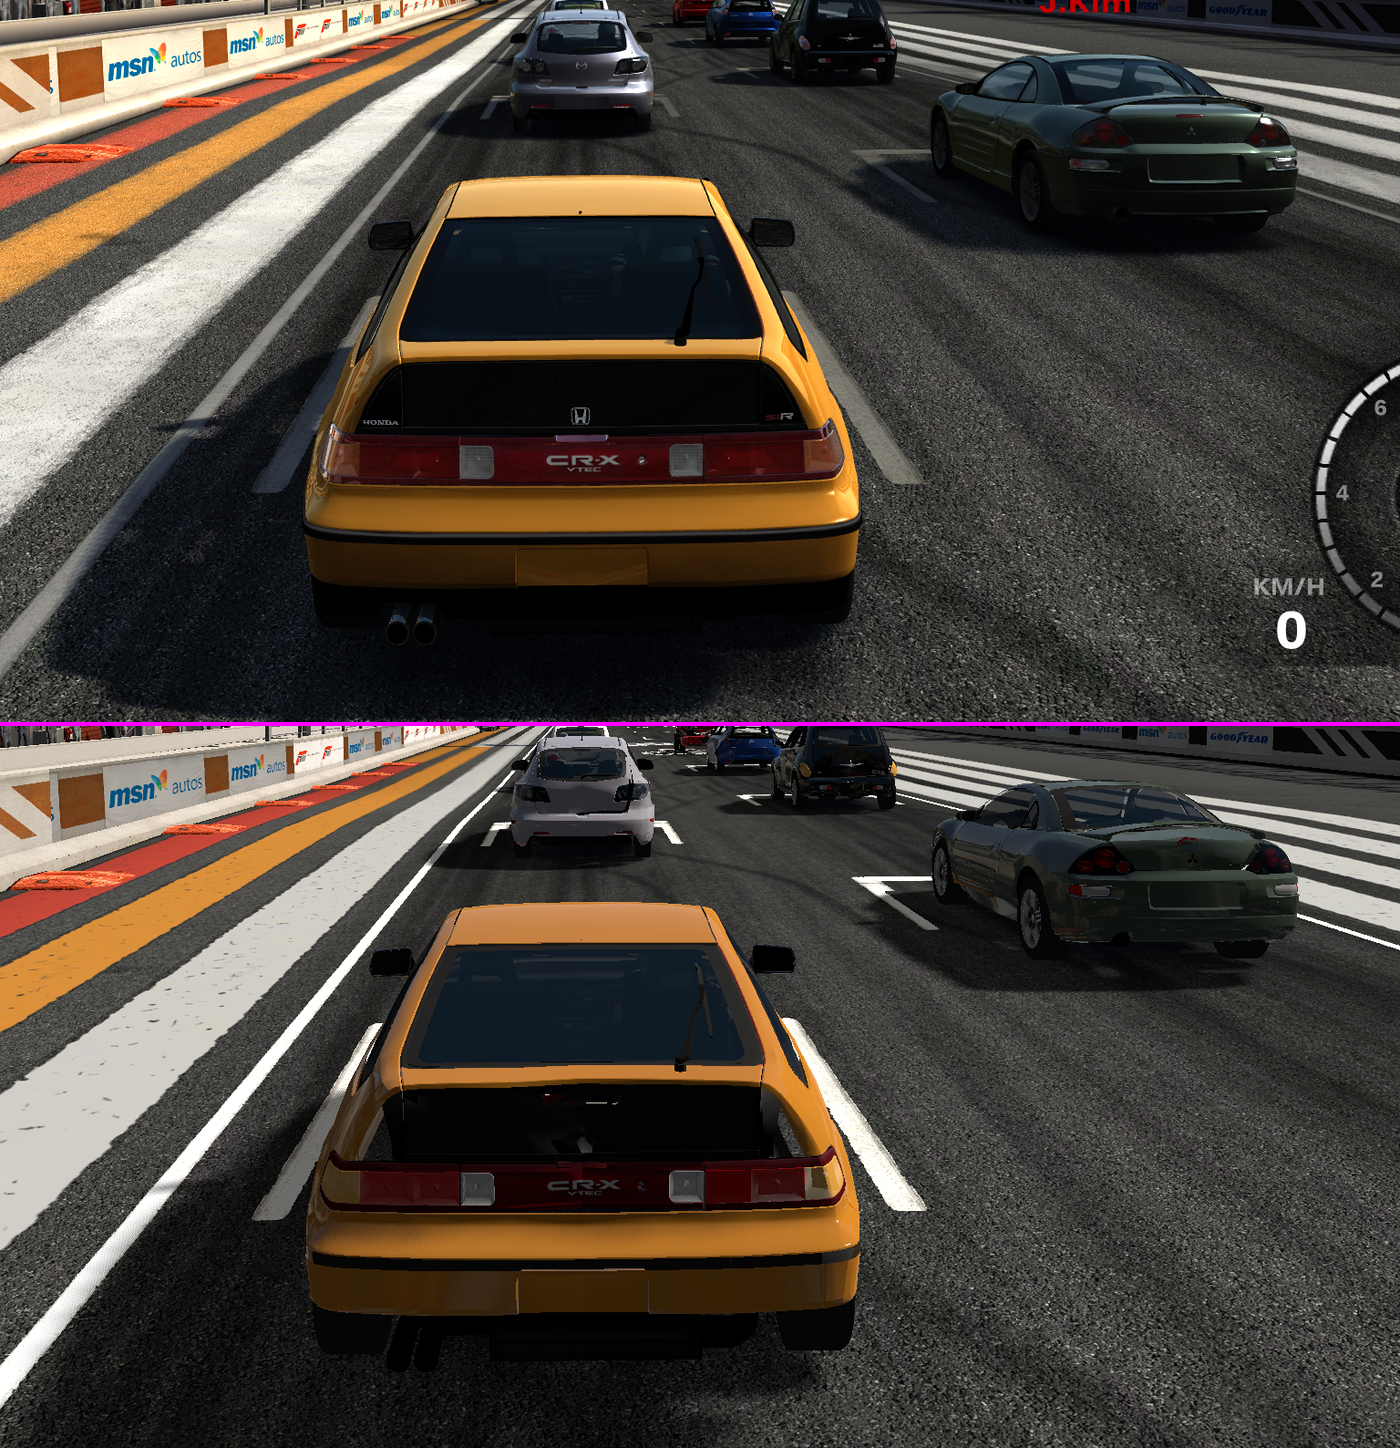
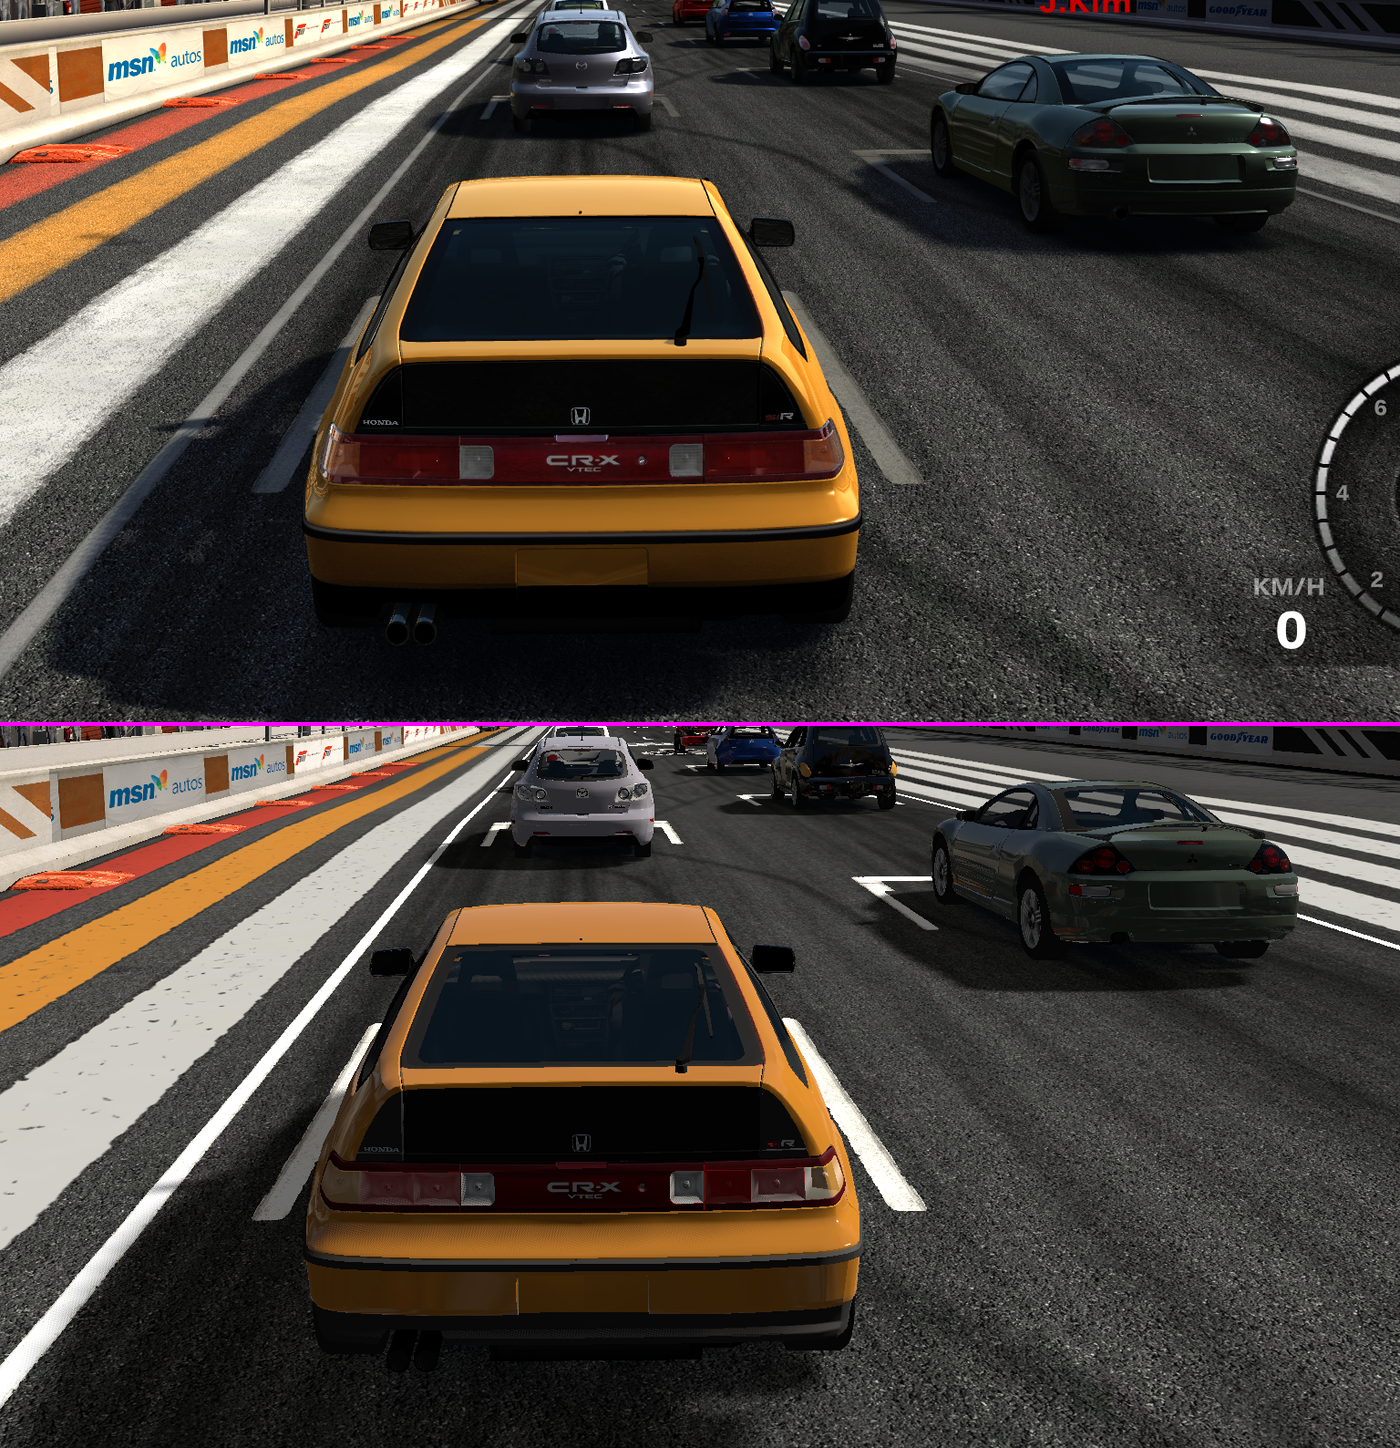
Whole cars from their .carbin files: part offsets, half-float vertices, rigid placement, per-part materials

diff --git a/tools/fm3_track_export.py b/tools/fm3_track_export.py
@@ -32,6 +32,7 @@ import fm3_track  # noqa: E402
 import fm3_tex  # noqa: E402
 import fm3_pvs  # noqa: E402
 import fm3_families  # noqa: E402
+import fm3_car  # noqa: E402
 import fir_read as fr  # noqa: E402
 import re  # noqa: E402
 from fir_world import smooth_normals  # noqa: E402
@@ -61,6 +62,151 @@ def apply_uv(chan, a, b, me):
     if uv is None:
         return None
     return (uv * np.array(a) + np.array(b)).astype(np.float32)
+
+
+CARBIN_DIRS = []  # --carbins DIR[;DIR]: whole cars from their .carbin files instead of the captured draws
+
+
+CAR_FLAT = {k: v for k, v in json.load(open(os.path.join(os.path.dirname(os.path.abspath(__file__)), '..', 'profiles', 'fm3',
+                                                         'car_materials.json'))).items() if isinstance(v, dict) and not v.get('keep')}
+
+
+def build_cars(ref, rbin, caps, capdir, copy_mat, add_view, accessors, meshes, nodes, materials_out):
+    """Every car of the capture rebuilt from its .carbin (fm3_car.py): the stock parts (the captured variants, mirrored
+    to the other side, else 'a'), placed by a rigid fit of the car's captured draws (carbin car space -> world), with
+    the materials the capture gave each material name (UV0 is the captured texture coordinate). Returns the car names
+    built (their captured body draws are then left out; wheels stay captured)."""
+    fl = os.path.join(capdir, 'fetches.json') if capdir else None
+    recs = dict(caps)
+    if fl and os.path.exists(fl):
+        for r in json.load(open(fl)):
+            recs.setdefault(r['seq'], r)
+
+    def world_of(n):
+        p = ref['meshes'][n['mesh']]['primitives'][0]
+        a = ref['accessors'][p['attributes']['POSITION']]
+        v = ref['bufferViews'][a['bufferView']]
+        P = np.frombuffer(rbin, np.float32, a['count'] * 3, v.get('byteOffset', 0) + a.get('byteOffset', 0)).reshape(-1, 3)
+        M = np.array(n.get('matrix', np.eye(4).ravel())).reshape(4, 4).T
+        return P.astype(np.float64) @ M[:3, :3].T + M[:3, 3], p.get('material')
+    per_car = {}
+    for n in ref['nodes']:
+        mo = re.match(r'draw(\d+) ([a-z0-9_]+)\.([a-z0-9_]+)$', n.get('name', ''))
+        if mo and 'mesh' in n:
+            per_car.setdefault(mo.group(2), []).append((int(mo.group(1)), mo.group(3), n))
+    built = set()
+    for car, draws in per_car.items():
+        path = next((os.path.join(d, car + '.carbin') for d in CARBIN_DIRS
+                     if os.path.exists(os.path.join(d, car + '.carbin'))), None)
+        if path is None:
+            continue
+        secs = fm3_car.parse(open(path, 'rb').read())
+        by_ib = {}
+        for si, sec in enumerate(secs):
+            for sub in sec['subs']:
+                by_ib.setdefault(sub['ib_hex'], (si, sub))
+        X, Y, captured, mat_of = [], [], set(), {}
+        for seq, matname, n in draws:
+            r = recs.get(seq)
+            hit = by_ib.get(r['ib']) if r else None
+            if hit is None:
+                continue
+            si, sub = hit
+            sec = secs[si]
+            W, mat = world_of(n)
+            vi = np.array(r['vindex'])
+            if sec['offset'] is None or len(vi) != len(W) or vi.max() >= len(sec['local']):
+                continue
+            captured.add(sec['name'])
+            if mat is not None:
+                mat_of.setdefault((sec['name'], sub['material']), mat)
+                votes = mat_of.setdefault(('*', sub['material']), {})
+                votes[mat] = votes.get(mat, 0) + len(vi)
+            if sec['name'].startswith(('headlight', 'trunk', 'hood', 'door')):
+                continue  # (movable parts: not used for the fit)
+            X.append(sec['local'][vi] + sec['offset'])
+            Y.append(W)
+        if not X:
+            continue
+        # robust: fit on the largest captured piece, keep the pieces it explains within 2 cm (some parts sit animated or
+        # damage-deformed in the frame), refit on those
+        good, err = [], 1.0
+        for seed in sorted(range(len(X)), key=lambda i: -len(X[i]))[:12]:  # the seed piece that explains most pieces
+            if len(X[seed]) < 4:
+                continue
+            R, t, e = fm3_car.kabsch(X[seed], Y[seed])
+            g_ = [i for i in range(len(X)) if np.abs(X[i] @ R.T + t - Y[i]).max() < 0.02]
+            if sum(len(X[i]) for i in g_) > sum(len(X[i]) for i in good):
+                good, err = g_, e
+        if not good:
+            print(f'  {car}: largest captured piece is not rigid in the carbin ({err:.3f} m), kept the captured draws')
+            continue
+        R, t, err = fm3_car.kabsch(np.concatenate([X[i] for i in good]), np.concatenate([Y[i] for i in good]))
+        if err > 0.05 or len(good) < max(3, len(X) // 3):
+            print(f'  {car}: carbin fit error {err:.3f} m, kept the captured draws')
+            continue
+        keep = fm3_car.stock_parts(secs, captured)
+        # the car's paint: the captured material with a metallic-roughness texture (fir_world writes one only for paint)
+        paint = None
+        for (sn, mn), v in mat_of.items():
+            if sn == '*':
+                for mi_, cnt_ in v.items():
+                    if 'metallicRoughnessTexture' in ref['materials'][mi_].get('pbrMetallicRoughness', {}):
+                        paint = mi_
+        groups = {}
+        for sec in secs:
+            if sec['name'] not in keep or sec['offset'] is None or sec['name'] == 'wheel':
+                continue
+            P = (sec['local'] + sec['offset']) @ R.T + t
+            for sub in sec['subs']:
+                tris = fm3_car.triangles(sub['indices'], sub['prim'])
+                if not len(tris) or tris.max() >= len(P):
+                    continue
+                m_ = mat_of.get((sec['name'], sub['material']))
+                if m_ is None and ('*', sub['material']) in mat_of:
+                    v_ = mat_of[('*', sub['material'])]
+                    m_ = max(v_, key=v_.get)  # the material most of this name's captured vertices had
+                if m_ is None and sub['material'] in ('body', 'body_2') and paint is not None:
+                    m_ = paint
+                if m_ is None and sub['material'] in CAR_FLAT:
+                    m_ = ('flat', sub['material'])
+                groups.setdefault((sub['material'], m_), []).append((P, tris, sec['uv0']))
+        mirrored = np.linalg.det(R) < 0
+        for (matname, matidx), parts in groups.items():
+            Pc = np.concatenate([q[0] for q in parts]).astype(np.float32)
+            Uc = np.concatenate([q[2] for q in parts]).astype(np.float32)
+            off, tl = 0, []
+            for q in parts:
+                tl.append((q[1][:, ::-1] if mirrored else q[1]) + off)
+                off += len(q[0])
+            T = np.concatenate(tl).astype(np.uint32)
+            N = smooth_normals(Pc, T)
+            prim = {'attributes': {}}
+            for attr, arr, typ in (('POSITION', Pc, 'VEC3'), ('NORMAL', N.astype(np.float32), 'VEC3'),
+                                   ('TEXCOORD_0', Uc, 'VEC2')):
+                acc = {'bufferView': add_view(np.ascontiguousarray(arr).tobytes(), 34962), 'componentType': 5126,
+                       'count': len(arr), 'type': typ}
+                if attr == 'POSITION':
+                    acc.update(min=Pc.min(0).tolist(), max=Pc.max(0).tolist())
+                accessors.append(acc)
+                prim['attributes'][attr] = len(accessors) - 1
+            accessors.append({'bufferView': add_view(T.tobytes(), 34963), 'componentType': 5125, 'count': int(T.size),
+                              'type': 'SCALAR'})
+            prim['indices'] = len(accessors) - 1
+            if isinstance(matidx, tuple):
+                r_ = CAR_FLAT[matidx[1]]
+                materials_out.append({'name': matidx[1], 'doubleSided': True, 'pbrMetallicRoughness': {
+                    'baseColorFactor': list(r_.get('color', [0.5, 0.5, 0.5])) + [float(r_.get('alpha', 1.0))],
+                    'metallicFactor': r_.get('metallic', 0.0), 'roughnessFactor': r_.get('roughness', 1.0)},
+                    **({'alphaMode': 'BLEND'} if r_.get('alpha', 1.0) < 1.0 else {})})
+                prim['material'] = len(materials_out) - 1
+            elif matidx is not None:
+                prim['material'] = copy_mat(matidx)
+            meshes.append({'name': f'{car}.{matname}', 'primitives': [prim]})
+            nodes.append({'mesh': len(meshes) - 1, 'name': f'carbin_{car}_{matname}_{len(meshes) - 1}'})
+        built.add(car)
+        print(f'  {car}: {len(keep)} parts from the carbin (fit {err * 1000:.1f} mm over {len(good)} of {len(X)} captured pieces)')
+    return built
 
 
 def import_dynamic(ref_path, capdir, src, add_view, accessors, materials, images, textures, meshes, nodes, tex_out):
@@ -112,7 +258,8 @@ def import_dynamic(ref_path, capdir, src, add_view, accessors, materials, images
             mat_map[i] = len(materials) - 1
         return mat_map[i]
 
-    count = 0
+    built = build_cars(ref, rbin, caps, capdir, copy_mat, add_view, accessors, meshes, nodes, materials) if CARBIN_DIRS else set()
+    count = len(built)
     for n in ref['nodes']:
         if 'mesh' not in n:
             continue
@@ -120,6 +267,8 @@ def import_dynamic(ref_path, capdir, src, add_view, accessors, materials, images
         if not mo:
             continue
         car = bool(mo.group(2).strip())
+        if car and mo.group(2).strip().split('.')[0] in built:
+            continue  # rebuilt whole from its .carbin
         rec = caps.get(int(mo.group(1)))
         if not car and (rec is None or blob.find(bytes.fromhex(rec['vb_head'])[:32]) >= 0):
             continue
@@ -482,6 +631,8 @@ def main():
                 img = img.copy()
                 img[..., 3] = 255
                 fr.write_png(os.path.join(tex_out, 'envcube_%d.png' % k), img.shape[1], img.shape[0], img.tobytes())
+    if '--carbins' in sys.argv:
+        CARBIN_DIRS.extend(sys.argv[sys.argv.index('--carbins') + 1].split(';'))
     if '--dynamic-from' in sys.argv:
         ndyn = import_dynamic(sys.argv[sys.argv.index('--dynamic-from') + 1], capdir, src, add_view, accessors, materials,
                               images, textures, meshes, nodes, tex_out)

diff --git a/tools/fm3_car.py b/tools/fm3_car.py
@@ -1,0 +1,148 @@
+"""fm3_car.py: whole FM3 cars from their .carbin files (Media/Cars/<car>.zip, extracted with tools/fm3unzip).
+
+Layout (big-endian), worked out on the CR-X against the captured grid frame (every captured car draw's index and vertex
+data are verbatim in the file):
+  part section: ... f32[3] offset (car space, at name - 81), f32[3] bbox min, f32[3] bbox max, ..., u32 name length,
+      name (e.g. body, trunk, bumperRa, skirtLb, wingrace, glassLM), u32 2, u32 vertex count, u32 stride (40),
+      vertices, then its subsections;
+  vertex (stride 40): half4 position (x, y, z, w: car space = xyz * w + section offset, as the vertex shader's
+      'mad r4 = r1.xyz * r1.w + c190'), half2 UV0 at byte 8 (the captured texture coordinates, unchanged), the rest
+      packed normal / tangent / damage data (not used here);
+  subsection: u32 2, u32 name length, material name (body, window, chrome, ...), u32 1 (LOD), u32 index type (6 strip /
+      4 list), u32 material index, u32 1, u32 0 x4, f32 1.0 x4, f32[2] UV offset, f32[2] UV tile, u32 3, i32 index
+      count, i32 index size, indices (0xFFFF restarts).
+Part variants: a base name plus a lower-case letter (bumperRa .. bumperRf, skirtLa ..) or 'race'; the stock car uses one
+variant per part group (the captured frame shows which).
+"""
+import re
+import struct
+
+import numpy as np
+
+_SEC = re.compile(rb'\x00\x00\x00([\x03-\x30])([A-Za-z][A-Za-z0-9_]{2,47})\x00\x00\x00\x02')
+_SUB = re.compile(rb'\x00\x00\x00\x02\x00\x00\x00([\x04-\x40])([a-z][a-z0-9_]{3,63})\x00\x00\x00\x01')
+
+
+HEADER = bytes([0, 0, 0, 2, 0, 0, 0, 0, 0, 0, 0, 0, 0, 0, 0, 2])
+
+
+def _header_offset(data, o, lo):
+    """The part's car-space offset: the last header between the previous part's data (lo) and this part's name:
+    u32 2, u32 0, u32 0, u32 2, f32[3] offset, f32[3] bbox min, f32[3] bbox max (for glass panes thousands of bytes
+    before the name, after their damage data). None if there is none."""
+    p = data.rfind(HEADER, lo, o)
+    if p < 0:
+        return None
+    v = np.array(struct.unpack_from('>9f', data, p + 16))
+    if np.all(np.isfinite(v)) and np.abs(v).max() < 10 and np.all(v[3:6] <= v[6:9]):
+        return v[:3]
+    return None
+
+
+def parse(data):
+    """[{'name', 'offset' (3,), 'positions' (n, 3) car space, 'uv0' (n, 2), 'raw', 'subs': [{'material', 'prim',
+    'indices', 'ib_hex'}]}]"""
+    secs = []
+    for m in _SEC.finditer(data):
+        if m.group(1)[0] != len(m.group(2)):
+            continue
+        q = m.start() + 4 + len(m.group(2))
+        two, cnt, st = struct.unpack_from('>III', data, q)
+        if not (16 <= st <= 64 and 0 < cnt < 200000) or q + 12 + cnt * st > len(data):
+            continue
+        o = m.start()
+        off = _header_offset(data, o, secs[-1]['end'] if secs else 0)
+        raw = np.frombuffer(data, np.uint8, cnt * st, q + 12).reshape(cnt, st)
+        h = raw[:, :8].copy().view('>f2').reshape(cnt, 4).astype(np.float64)
+        uv = raw[:, 8:12].copy().view('>f2').reshape(cnt, 2).astype(np.float64)
+        secs.append({'name': m.group(2).decode(), 'start': o, 'end': q + 12 + cnt * st, 'offset': off,
+                     'local': h[:, :3] * h[:, 3:4], 'uv0': uv, 'subs': []})
+    starts = [s['end'] for s in secs]
+    import bisect
+    for m in _SUB.finditer(data):
+        if m.group(1)[0] != len(m.group(2)):
+            continue
+        q = m.start() + 8 + len(m.group(2))
+        lod, prim = struct.unpack_from('>II', data, q)
+        three, cnt, sz = struct.unpack_from('>Iii', data, q + 4 * 16)
+        if three != 3 or sz not in (2, 4) or not 0 < cnt < 4000000:
+            continue
+        k = bisect.bisect_right(starts, m.start()) - 1
+        if k < 0:
+            continue
+        io = q + 4 * 19
+        idx = np.frombuffer(data, '>u2' if sz == 2 else '>u4', cnt, io).astype(np.int64)
+        secs[k]['subs'].append({'material': m.group(2).decode(), 'prim': prim, 'indices': idx,
+                                'ib_hex': data[io:io + cnt * sz].hex()})
+    return secs
+
+
+def triangles(indices, prim, restart=0xFFFF):
+    if prim == 4:
+        n = len(indices) // 3 * 3
+        return indices[:n].reshape(-1, 3)
+    tris, run = [], []
+    for v in list(indices) + [restart]:
+        if v == restart or v == 0xFFFFFFFF:
+            for k in range(len(run) - 2):
+                a, b, c = run[k], run[k + 1], run[k + 2]
+                if a != b and b != c and a != c:
+                    tris.append((a, b, c) if k % 2 == 0 else (b, a, c))
+            run = []
+        else:
+            run.append(int(v))
+    return np.array(tris, np.int64).reshape(-1, 3)
+
+
+_VAR = re.compile(r'^(.*?[LR]?)([a-g]|race)$')
+
+
+def group_of(name):
+    """(part group, variant) for variant parts (bumperRa -> ('bumperR', 'a'), wingrace -> ('wing', 'race')), else
+    (name, None)."""
+    m = _VAR.match(name)
+    if m and m.group(1) and m.group(1) not in ('', ) and not name.startswith(('glass', 'seat', 'mirror', 'head', 'tail')):
+        return m.group(1), m.group(2)
+    return name, None
+
+
+def stock_parts(secs, captured):
+    """Section names of the car as the game shows it: every non-variant part, and per variant group the captured
+    variant (or its mirror's: skirtLa from skirtRa), else 'a'; optional extras (wings, cages) only when captured."""
+    chosen = {}
+    for s in secs:
+        g, v = group_of(s['name'])
+        if v is None:
+            continue
+        if s['name'] in captured and v != 'race':
+            chosen[g] = v
+    keep = set(n for n in captured)
+    for s in secs:
+        g, v = group_of(s['name'])
+        if v is None:
+            if s['name'] in captured or not s['name'].endswith('race'):
+                keep.add(s['name'])
+            continue
+        mirror = g[:-1] + {'L': 'R', 'R': 'L'}[g[-1]] if g[-1:] in ('L', 'R') else None
+        want = chosen.get(g) or (chosen.get(mirror) if mirror else None)
+        if want is None and not g.startswith(('wing', 'cage')):
+            want = 'a'
+        if want is not None and v == want:
+            keep.add(s['name'])
+    return keep
+
+
+def kabsch(x, y, allow_mirror=True):
+    """R, t with y ~ x R^T + t (least squares, scale 1)."""
+    mx, my = x.mean(0), y.mean(0)
+    H = (x - mx).T @ (y - my)
+    U, _, Vt = np.linalg.svd(H)
+    best = None
+    for sgn in ((1, -1) if allow_mirror else (1,)):
+        D = np.diag([1.0, 1.0, sgn * np.sign(np.linalg.det(Vt.T @ U.T))])
+        R = Vt.T @ D @ U.T
+        t = my - R @ mx
+        e = np.abs(x @ R.T + t - y).max()
+        if best is None or e < best[2]:
+            best = (R, t, e)
+    return best

diff --git a/M1.md b/M1.md
@@ -340,6 +340,16 @@ more saturated, the asphalt has less grain.
     0.007; car glass tinted blue (0.006, 0.016, 0.03) at alpha 0.5 with weak reflections (Godot imports glTF BLEND as
     alpha + depth pre-pass, so the glass branch had never applied). Left: the CR-X's H / si-R badges share a shader with
     its window seals (d2001273) and come out as seal colour; tail-light lenses' brightness.
+  - **Cars from their .carbin files** ([`cars-from-carbin.png`](m1/stage2-transforms/cars-from-carbin.png)): the capture
+    holds only what the frame drew and how (pieces missing up close, the CR-X badges painted as seal colour).
+    [`tools/fm3_car.py`](tools/fm3_car.py) reads the whole car: parts with a car-space offset and bbox (header u32 2,
+    0, 0, 2 + 9 floats), stride-40 vertices (half4 position, car space = xyz * w + offset, as the vertex shader's
+    mad r1.xyz, r1.w, c190; half2 UV0 at byte 8 = the captured coordinates), subsections like the track's. The exporter
+    (`--carbins DIR`) places each car by a rigid fit of its captured pieces (the seed piece that explains most others,
+    within 2 cm: CR-X and Eclipse 0.0 mm), keeps the stock parts (captured variants, mirrored to the hidden side, else
+    'a'), and gives each part the material captured for it, else the most common one of its material name, else the
+    car's paint (body) or the flat car-material rule. The far cars (Beetle, PT Cruiser, Focus, C4, Tuscani) are drawn
+    with lower-detail models that are not in these files and stay captured.
   - Still approximate: road-edge / shoulder recipes (inferred), grass tufts lie flat, chain-link fences' UVs, the lake
     has no animated normals, props only for the Ladera short layout.
 - **Earlier wrong turn, for the record:** Amalfi GP and Catalunya share props (barriers, flags, shrubs) with Ladera, so

diff --git a/FM3-FORMATS.md b/FM3-FORMATS.md
@@ -27,6 +27,13 @@ web search were not reachable).
 
 - **Verified (FM3):** material records `u32 2, u32 len, name, u32 1` before each mesh's data; index lists (u16, 0xFFFF restart) and
   vertex buffers are uploaded unchanged, so captured draws are found verbatim (`tools/fm3_assets.py`).
+- **Verified (FM3), the whole car** (`tools/fm3_car.py`): part sections (body, trunk, hooda, bumperRa..f, skirtLa..,
+  glassLM, wingrace, ...): a header u32 2, u32 0, u32 0, u32 2, f32[3] car-space offset, f32[3] bbox min, f32[3] bbox
+  max somewhere before the name (for glass panes thousands of bytes before, after their damage data), u32 name length,
+  name, u32 2, u32 vertex count, u32 stride (40), vertices, subsections (u32 2, material name, u32 LOD, u32 index type,
+  u32 material index, ..., UV offset/tile, u32 3, count, size, indices). Vertex: half4 position (car space = xyz * w +
+  part offset; the vertex shader's `mad r4 = r1.xyz * r1.w + c190`), half2 UV0 at byte 8, packed normal/tangent and
+  damage data after. Variants per part group (letters a-g, 'race'); the stock car uses one per group.
 - **FH1/FM4:** strings are `u32 length + bytes`; `array<T>` = `u32 version(1), u32 count, T...`; root u32 (5 car, 3 wheel,
   1 part); CMesh = material/technique name, u32 LOD, u32 primitive (6 strip / 4 list), u32 material index, unpacking
   data, index buffer (FM4 v3: count, format 2/4); VertexBuffer v3 = version, count, stride, flags (bit 0 key follows,
